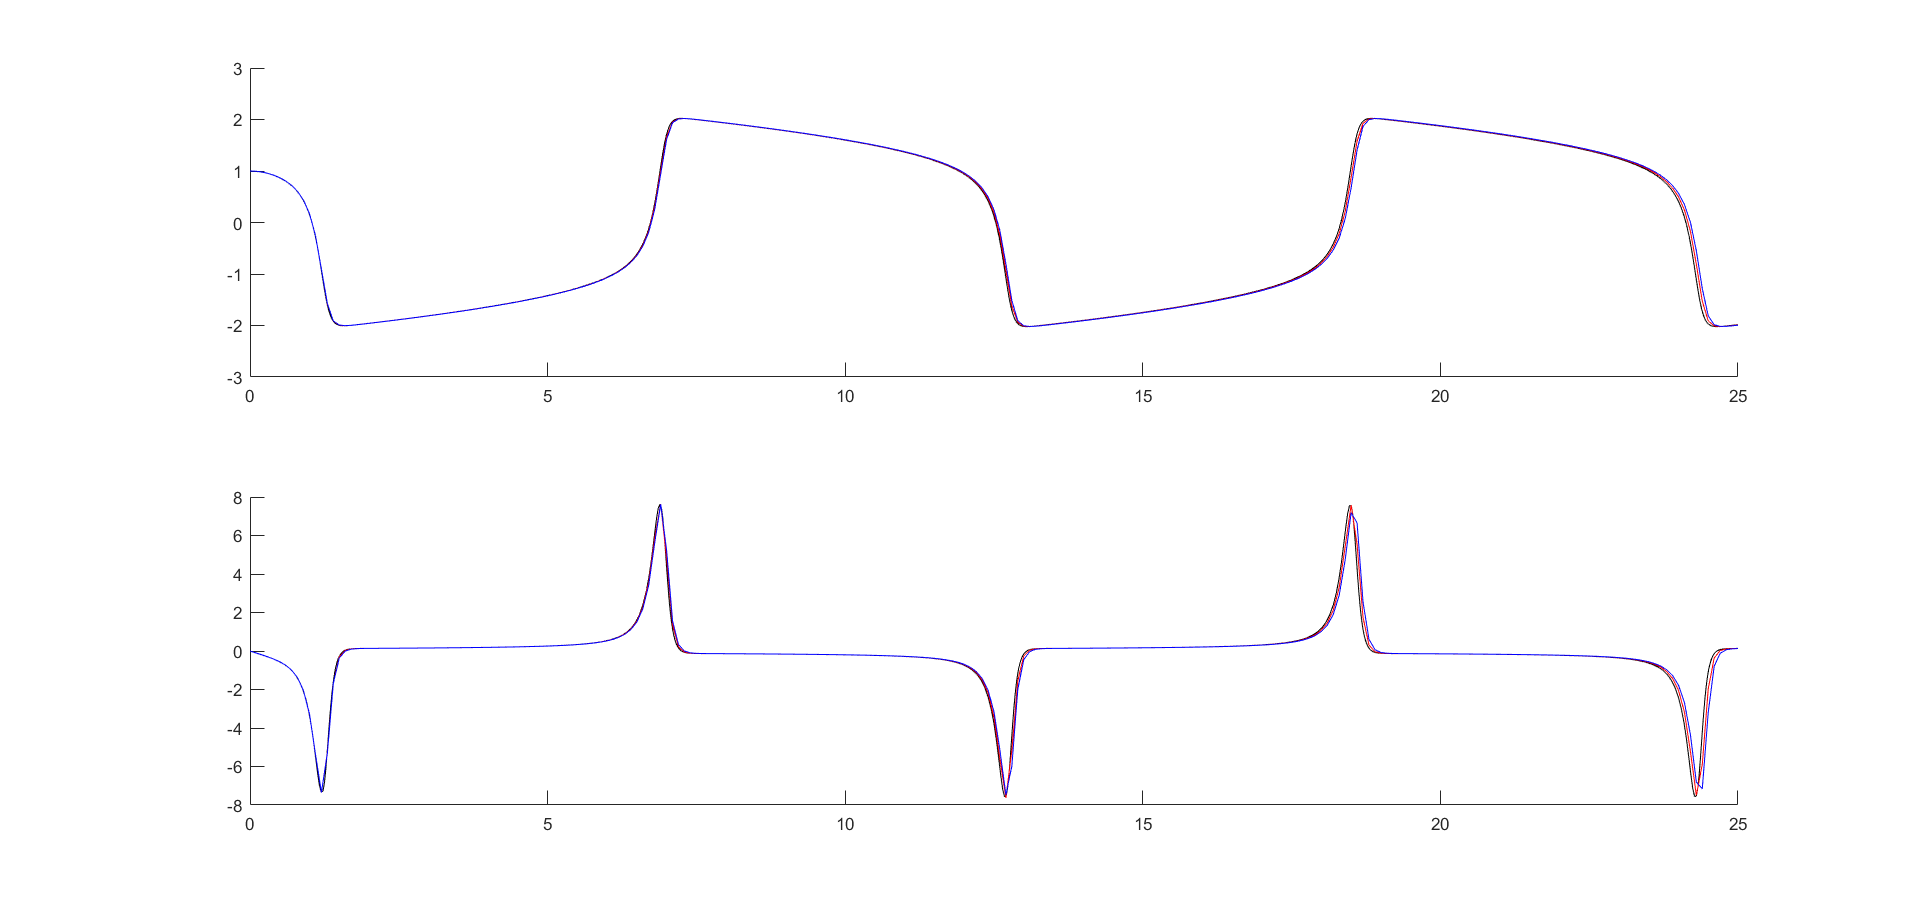
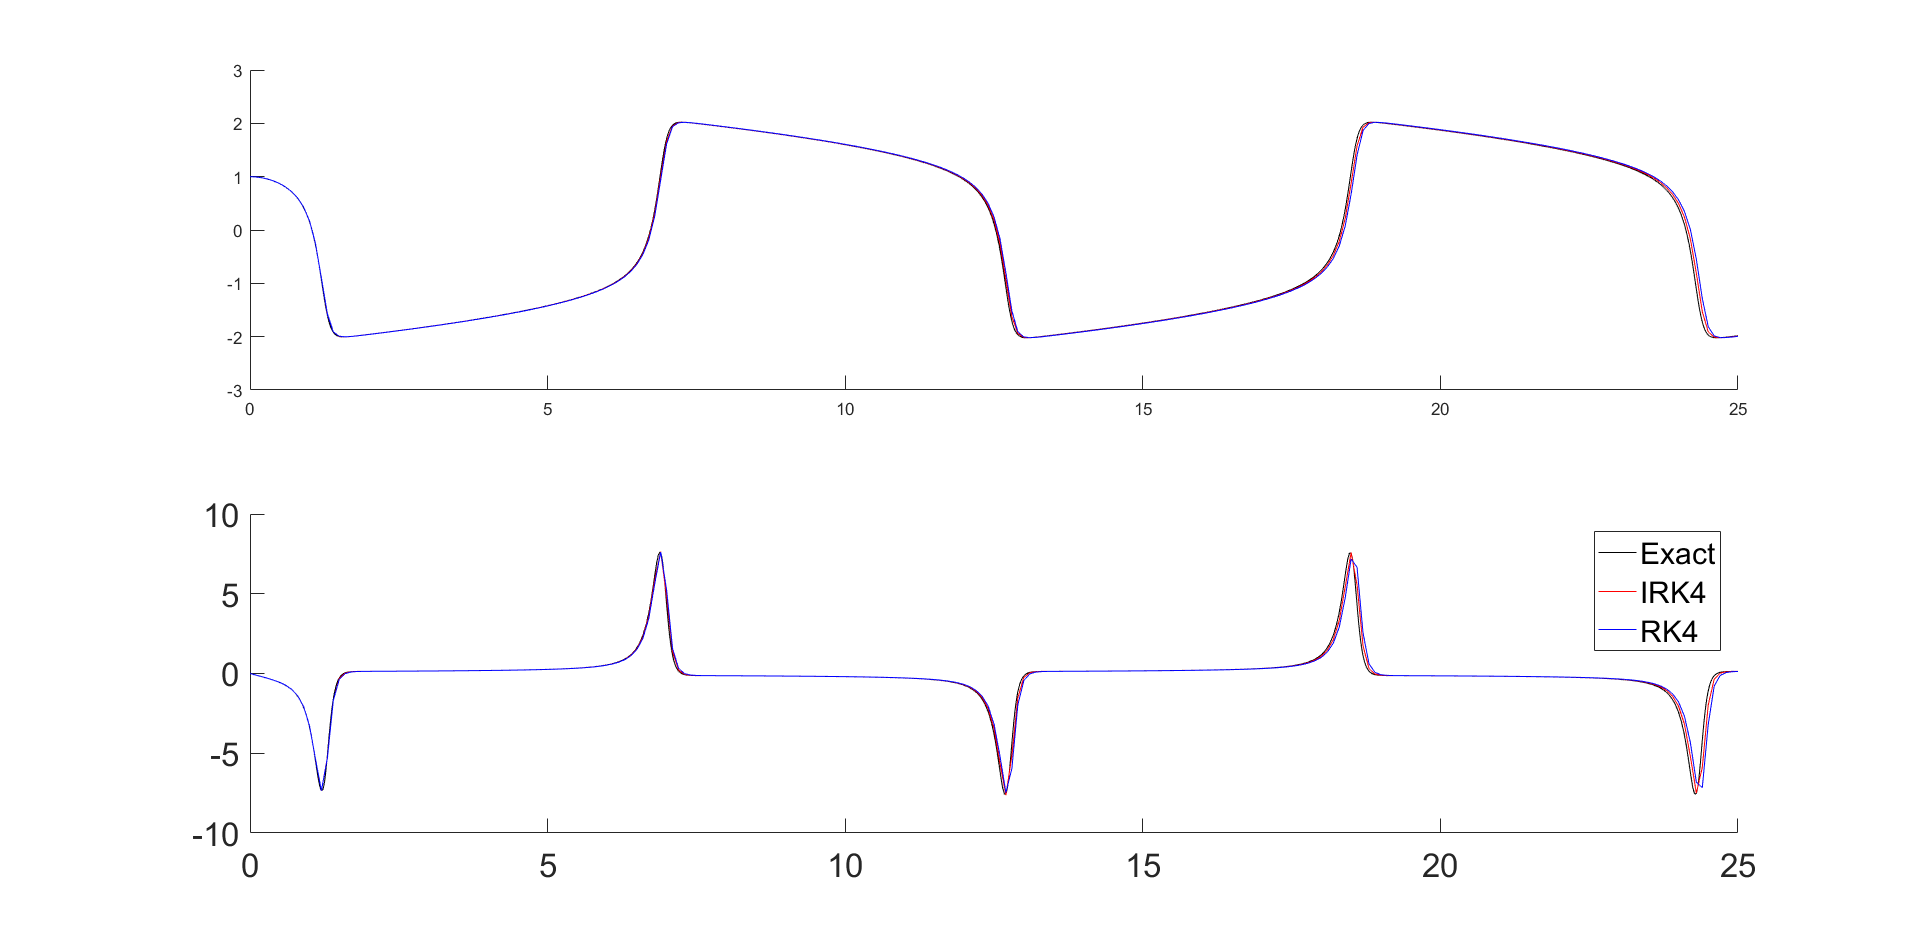
Add files via upload

diff --git a/Assignment4/rFileIRK1.m b/Assignment4/rFileIRK1.m
@@ -1,37 +1,33 @@
-function [r,dr] = rFileIRK1(t,in2,in3,dt)
+function [r,dr] = rFileIRK1(t,in2,in3,dt,g,m,z)
 %RFILEIRK1
-%    [R,DR] = RFILEIRK1(T,IN2,IN3,DT)
+%    [R,DR] = RFILEIRK1(T,IN2,IN3,DT,G,M,Z)
 
 %    This function was generated by the Symbolic Math Toolbox version 7.1.
-%    17-Oct-2017 11:04:12
+%    17-Oct-2017 14:46:31
 
 K1_1 = in3(1);
-K1_2 = in3(3);
+K1_2 = in3(7);
 K2_1 = in3(2);
-K2_2 = in3(4);
+K2_2 = in3(8);
+K3_1 = in3(3);
+K3_2 = in3(9);
+K4_1 = in3(4);
+K4_2 = in3(10);
+K5_1 = in3(5);
+K5_2 = in3(11);
+K6_1 = in3(6);
+K6_2 = in3(12);
 x1 = in2(1,:);
 x2 = in2(2,:);
-t4 = K1_1.*dt.*(1.0./4.0);
-t5 = K2_1.*dt.*3.867513459481287e-2;
-t2 = t4-t5+x1;
-t3 = K2_2.*dt.*3.867513459481287e-2;
-t7 = K1_1.*dt.*5.386751345948129e-1;
-t8 = K2_1.*dt.*(1.0./4.0);
-t6 = t7+t8+x1;
-t9 = K1_2.*dt.*(1.0./4.0);
-t10 = -t3+t9+x2;
-t11 = dt.*3.867513459481287e-2;
-t12 = t2.^2;
-t13 = t12.*5.0;
-t14 = t13-5.0;
-t15 = dt.*(1.0./4.0);
-t16 = K1_2.*dt.*5.386751345948129e-1;
-t17 = K2_2.*dt.*(1.0./4.0);
-t18 = t16+t17+x2;
-t19 = t6.^2;
-t20 = t19.*5.0;
-t21 = t20-5.0;
-r = [K1_1+t3-x2-K1_2.*dt.*(1.0./4.0);K1_2+t4-t5+x1+t10.*t14;K2_1-x2-K1_2.*dt.*5.386751345948129e-1-K2_2.*dt.*(1.0./4.0);K2_2+t7+t8+x1+t18.*t21];
+x3 = in2(3,:);
+x4 = in2(4,:);
+x5 = in2(5,:);
+x6 = in2(6,:);
+t2 = 1.0./m;
+r = [K1_1-x4-K4_1.*dt.*(1.0./4.0)+K4_2.*dt.*3.867513459481287e-2;K2_1-x5-K5_1.*dt.*(1.0./4.0)+K5_2.*dt.*3.867513459481287e-2;K3_1-x6-K6_1.*dt.*(1.0./4.0)+K6_2.*dt.*3.867513459481287e-2;K4_1+t2.*z.*(x1+K1_1.*dt.*(1.0./4.0)-K1_2.*dt.*3.867513459481287e-2);K5_1+t2.*z.*(x2+K2_1.*dt.*(1.0./4.0)-K2_2.*dt.*3.867513459481287e-2);K6_1+g+t2.*z.*(x3+K3_1.*dt.*(1.0./4.0)-K3_2.*dt.*3.867513459481287e-2);K1_2-x4-K4_1.*dt.*5.386751345948129e-1-K4_2.*dt.*(1.0./4.0);K2_2-x5-K5_1.*dt.*5.386751345948129e-1-K5_2.*dt.*(1.0./4.0);K3_2-x6-K6_1.*dt.*5.386751345948129e-1-K6_2.*dt.*(1.0./4.0);K4_2+t2.*z.*(x1+K1_1.*dt.*5.386751345948129e-1+K1_2.*dt.*(1.0./4.0));K5_2+t2.*z.*(x2+K2_1.*dt.*5.386751345948129e-1+K2_2.*dt.*(1.0./4.0));K6_2+g+t2.*z.*(x3+K3_1.*dt.*5.386751345948129e-1+K3_2.*dt.*(1.0./4.0))];
 if nargout > 1
-    dr = reshape([1.0,t15+dt.*t2.*t10.*(5.0./2.0),0.0,dt.*5.386751345948129e-1+dt.*t6.*t18.*5.386751345948129,0.0,-t11-dt.*t2.*t10.*3.867513459481287e-1,1.0,t15+dt.*t6.*t18.*(5.0./2.0),dt.*(-1.0./4.0),dt.*t14.*(1.0./4.0)+1.0,dt.*(-5.386751345948129e-1),dt.*t21.*5.386751345948129e-1,t11,dt.*t14.*(-3.867513459481287e-2),-t15,dt.*t21.*(1.0./4.0)+1.0],[4,4]);
+    t3 = dt.*3.867513459481287e-2;
+    t4 = dt.*t2.*z.*(1.0./4.0);
+    t5 = dt.*t2.*z.*5.386751345948129e-1;
+    dr = reshape([1.0,0.0,0.0,t4,0.0,0.0,0.0,0.0,0.0,t5,0.0,0.0,0.0,1.0,0.0,0.0,t4,0.0,0.0,0.0,0.0,0.0,t5,0.0,0.0,0.0,1.0,0.0,0.0,t4,0.0,0.0,0.0,0.0,0.0,t5,dt.*(-1.0./4.0),0.0,0.0,1.0,0.0,0.0,dt.*(-5.386751345948129e-1),0.0,0.0,0.0,0.0,0.0,0.0,dt.*(-1.0./4.0),0.0,0.0,1.0,0.0,0.0,dt.*(-5.386751345948129e-1),0.0,0.0,0.0,0.0,0.0,0.0,dt.*(-1.0./4.0),0.0,0.0,1.0,0.0,0.0,dt.*(-5.386751345948129e-1),0.0,0.0,0.0,0.0,0.0,0.0,dt.*t2.*z.*(-3.867513459481287e-2),0.0,0.0,1.0,0.0,0.0,t4,0.0,0.0,0.0,0.0,0.0,0.0,dt.*t2.*z.*(-3.867513459481287e-2),0.0,0.0,1.0,0.0,0.0,t4,0.0,0.0,0.0,0.0,0.0,0.0,dt.*t2.*z.*(-3.867513459481287e-2),0.0,0.0,1.0,0.0,0.0,t4,t3,0.0,0.0,0.0,0.0,0.0,dt.*(-1.0./4.0),0.0,0.0,1.0,0.0,0.0,0.0,t3,0.0,0.0,0.0,0.0,0.0,dt.*(-1.0./4.0),0.0,0.0,1.0,0.0,0.0,0.0,t3,0.0,0.0,0.0,0.0,0.0,dt.*(-1.0./4.0),0.0,0.0,1.0],[12,12]);
 end

diff --git a/Assignment4/xNextFileIRK1.m b/Assignment4/xNextFileIRK1.m
@@ -1,14 +1,26 @@
-function xNext = xNextFileIRK1(t,in2,in3,dt)
+function xNext = xNextFileIRK1(t,in2,in3,dt,g,m,z)
 %XNEXTFILEIRK1
-%    XNEXT = XNEXTFILEIRK1(T,IN2,IN3,DT)
+%    XNEXT = XNEXTFILEIRK1(T,IN2,IN3,DT,G,M,Z)
 
 %    This function was generated by the Symbolic Math Toolbox version 7.1.
-%    17-Oct-2017 11:04:12
+%    17-Oct-2017 14:46:32
 
 K1_1 = in3(1);
-K1_2 = in3(3);
+K1_2 = in3(7);
 K2_1 = in3(2);
-K2_2 = in3(4);
+K2_2 = in3(8);
+K3_1 = in3(3);
+K3_2 = in3(9);
+K4_1 = in3(4);
+K4_2 = in3(10);
+K5_1 = in3(5);
+K5_2 = in3(11);
+K6_1 = in3(6);
+K6_2 = in3(12);
 x1 = in2(1,:);
 x2 = in2(2,:);
-xNext = [x1+K1_1.*dt.*(1.0./2.0)+K2_1.*dt.*(1.0./2.0);x2+K1_2.*dt.*(1.0./2.0)+K2_2.*dt.*(1.0./2.0)];
+x3 = in2(3,:);
+x4 = in2(4,:);
+x5 = in2(5,:);
+x6 = in2(6,:);
+xNext = [x1+K1_1.*dt.*(1.0./2.0)+K1_2.*dt.*(1.0./2.0);x2+K2_1.*dt.*(1.0./2.0)+K2_2.*dt.*(1.0./2.0);x3+K3_1.*dt.*(1.0./2.0)+K3_2.*dt.*(1.0./2.0);x4+K4_1.*dt.*(1.0./2.0)+K4_2.*dt.*(1.0./2.0);x5+K5_1.*dt.*(1.0./2.0)+K5_2.*dt.*(1.0./2.0);x6+K6_1.*dt.*(1.0./2.0)+K6_2.*dt.*(1.0./2.0)];

diff --git a/Assignment4/task3.m b/Assignment4/task3.m
@@ -1,0 +1,45 @@
+clc; clear all
+%% Create function
+n = 6;
+p = sym('p',[3,1]);
+v = sym('v',[3,1]);
+x  = [p;v];
+syms t g z m dt real
+
+f = [x(4:6,1);
+     -g*[0;0;1] - (1/m)*z*x(1:3)];
+
+matlabFunction(f,'File','daeFunc','Vars',{t,x,z,g,m});
+%%
+s = 2;
+K = sym('K',[n,s]);
+x = sym('x',[n,1]);
+
+A = [1/4, 1/4-sqrt(3)/6;
+    1/4+sqrt(3)/6, 1/4];
+b = [1/2, 1/2];
+
+f =@(t,x,z,g,m) daeFunc(t,x,z,g,m);
+
+for i = 1:s
+    r(n*i-(n-1):n*i,1) = K(:,i) - f(t + dt,x + (dt*A(i,:)*K.').',z,g,m);
+end
+dr = jacobian(reshape(r,[s*6,1]),reshape(K,[s*6,1]));
+matlabFunction(r,dr, 'file', 'rFileIRK1','vars',{t,x,K,dt,g,m,z});
+
+xNext = x + (dt*b*K.').';
+matlabFunction(xNext, 'file', 'xNextFileIRK1','vars',{t,x,K,dt,g,m,z});
+
+clear xNext K x t dt r dr g m z dp dv dz
+%% Simulation parameters
+tf = 2;
+dt = 0.1;
+x0 = [1;0;0;0;1;0];
+
+%% Simulation
+
+[tIRK4,xIRK4] = IRK4(dt,tf,x0,n,s); % IRK4(dt,tf,x0,n,s)
+plot3(xIRK4(1,:),xIRK4(2,:),xIRK4(3,:)),grid on, axis equal
+
+
+

diff --git a/Assignment4/main.m b/Assignment4/main.m
@@ -24,7 +24,7 @@ b = [1/2, 1/2];
 f = @(t,x)VanDerPol(t,x);
 
 for i = 1:s
-    r(n*i-(n-1):n*i,1) = K(i,:).' - f(t + dt,x + (dt*A(i,:)*K).');
+    r(n*i-(n-1):n*i,1) = K(i,:).' - f(t + dt,x + (dt*A(i,:)*K.').');
 end
 dr = jacobian(reshape(r,[s*2,1]),reshape(K,[s*2,1]));
 matlabFunction(r,dr, 'file', 'rFileIRK1','vars',{t,x,K,dt});
@@ -75,4 +75,31 @@ for subfig = 1:n
     plot(tIRK4,xIRK4(subfig,:),'r')
     plot(tVDP,xVDP(:,subfig),'b')
 end
+set(gca,'fontsize',20)
+legend('Exact','IRK4','RK4')
+
+%% Task 3
+n = 3;
+p  = sym('p',[n,1]);
+v  = sym('v',[n,1]);
+x = [p;v];
+syms t real
+
+dp = v;
+dv = -g*[0;0;1] - (1/m)*z*p;
+dz = -v.'*v\p.';
+
+matlabFunction([dp,dv,dz],'File','daeFunc','Vars',{t,x})
+
+s = 2;
+K = sym('K',[2,s]);
+x = sym('x',[2,1]);
+syms t dt real
+
+A = [1/4, 1/4-sqrt(3)/6;
+    1/4+sqrt(3)/6, 1/4];
+b = [1/2, 1/2];
+
+
+
 

diff --git a/Assignment4/IRK4.m b/Assignment4/IRK4.m
@@ -5,7 +5,11 @@ function [t,x] = IRK4(dt,tf,x0,n,s)
 Nsteps = tf/dt;
 t = [0:dt:tf];
 x = [x0,zeros(n,Nsteps-1)];
-K = zeros(2*s,1);
+K = zeros(n*s,1);
+
+g = 9.82;
+m = 1;
+syms z;
 
 for k = 1:Nsteps
     %Newton iteration
@@ -13,12 +17,14 @@ for k = 1:Nsteps
     alpha = 1;
     niter = 0;
     while iter
-        [r,dr] = rFileIRK1(t,x(:,k),K,dt); % (t,x(:,k),K,dt)
+        ztrue = solve(x(1:3,k)'*(-g*[0;0;1]-(1/m)*z*x(1:3,k))+x(4:6,k)'*x(4:6,k),z);
+        [r,dr] = rFileIRK1(t,x(:,k),K,dt,g,m,ztrue); % t,x,K,dt,g,m,z
         K = K - dr\r;
         norm(r);
         if norm(r) < 1e-5
             iter = false;
         end
+        t(k)
     end
     x(:,k+1) = xNextFileIRK1(t,x(:,k),K,dt);
 end

diff --git a/Assignment4/daeFunc.m b/Assignment4/daeFunc.m
@@ -1,0 +1,15 @@
+function f = daeFunc(t,in2,z,g,m)
+%DAEFUNC
+%    F = DAEFUNC(T,IN2,Z,G,M)
+
+%    This function was generated by the Symbolic Math Toolbox version 7.1.
+%    17-Oct-2017 14:46:30
+
+p1 = in2(1,:);
+p2 = in2(2,:);
+p3 = in2(3,:);
+v1 = in2(4,:);
+v2 = in2(5,:);
+v3 = in2(6,:);
+t2 = 1.0./m;
+f = [v1;v2;v3;-p1.*t2.*z;-p2.*t2.*z;-g-p3.*t2.*z];

diff --git a/Assignment4/VanDerPol.m b/Assignment4/VanDerPol.m
@@ -3,7 +3,7 @@ function f = VanDerPol(t,in2)
 %    F = VANDERPOL(T,IN2)
 
 %    This function was generated by the Symbolic Math Toolbox version 7.1.
-%    17-Oct-2017 11:04:11
+%    17-Oct-2017 14:37:06
 
 x1 = in2(1,:);
 x2 = in2(2,:);

diff --git a/Assignment4/odefunc.m b/Assignment4/odefunc.m
@@ -3,7 +3,7 @@ function out1 = odefunc(in1)
 %    OUT1 = ODEFUNC(IN1)
 
 %    This function was generated by the Symbolic Math Toolbox version 7.1.
-%    17-Oct-2017 11:04:14
+%    17-Oct-2017 11:42:38
 
 x = in1(:,1);
 y = in1(:,2);
